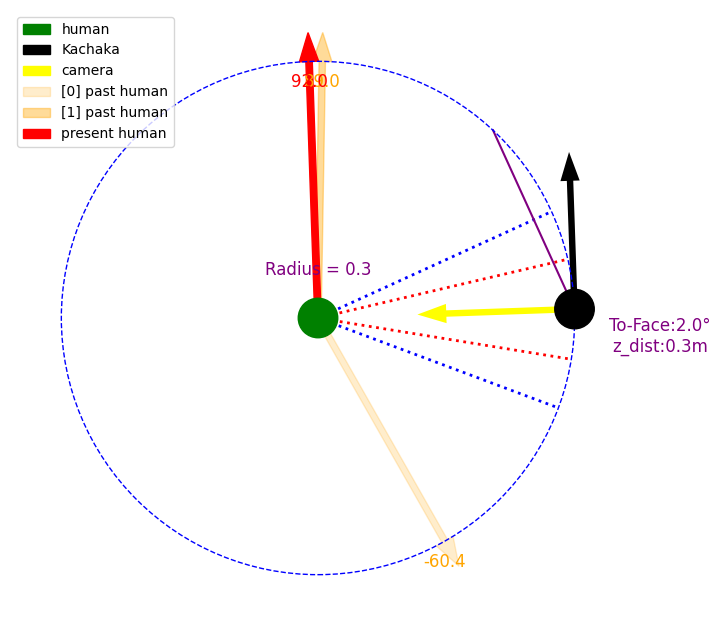
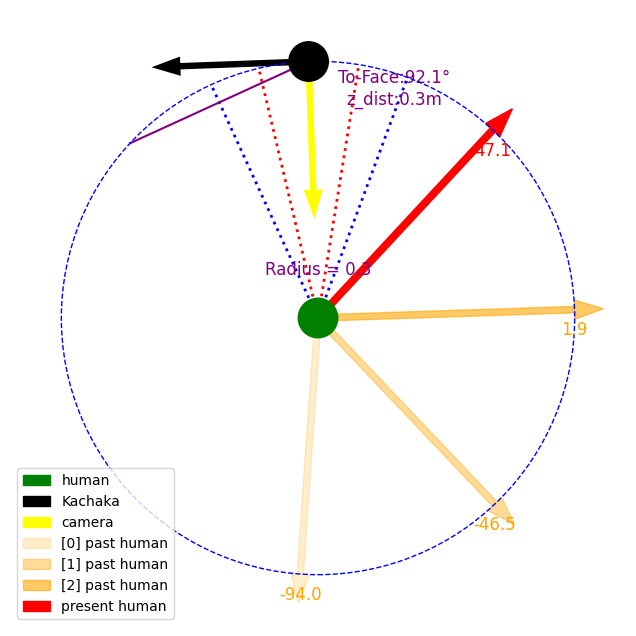
going in a circle but the wrong way

diff --git a/stalk/funcs.py b/stalk/funcs.py
@@ -757,7 +757,7 @@ class KachakaFrame():
 
     async def test_circle(self):
         if self.dest_pose is None:
-            target_rad = np.deg2rad(180)
+            target_rad = np.deg2rad(45)
             z_dist = 0.3 #meter
             (pose_x, pose_y), pose_theta = await self.get_robot_pose() # pose_theta is in range [-pi, pi]
             camera_rad = math.pi/2
@@ -773,14 +773,13 @@ class KachakaFrame():
             d_theta = math.pi + (target_rad - camera_look_rad)
             # get new coords
             step_theta = np.sign(d_theta)*min(math.pi/4, abs(d_theta))
-            new_theta = rel_theta + step_theta
+            new_theta = rel_theta + step_theta + math.pi/2
             rel_new_x, rel_new_y = get_coords_from_angle(new_theta, z_dist)
             # print((rel_pose_x, rel_pose_y), (rel_new_x, rel_new_y))
             new_x, new_y = human_x - rel_new_x, human_y - rel_new_y
             # print((pose_x, pose_y), (new_x, new_y))
             # self.dest_pose = (pose_x, pose_y, new_theta)
-            self.dest_pose = (new_x, new_y, 0)
-            print((pose_x, pose_y), (human_x, human_y), (rel_pose_x, rel_pose_y), (rel_new_x, rel_new_y), (new_x, new_y))
+            self.dest_pose = (new_x, new_y, kachaka_look_rad + step_theta)
 
             # visualize
             fig,ax = plt.subplots(figsize=(12,8))
@@ -1404,15 +1403,18 @@ def filter_outliers_IQR(data: np.ndarray) -> np.ndarray:
 def dir_to_gif():
     import os
     from PIL import Image
-    dir = "/home/yo/Desktop/kachaka/kachaka-learn/stalk/img/"
-    images = [f for f in os.listdir(dir) if f.endswith(".png")]
-    images.sort()
-    images = [Image.open(os.path.join(dir,f)) for f in images]
-    images[0].save('output.gif',
-               save_all=True,  # Save all frames
-               append_images=images[1:],  # Append the rest of the images
-               duration=500,  # Duration between frames in milliseconds
-               loop=0)  # Loop forever
+    try:
+        dir = "/home/yo/Desktop/kachaka/kachaka-learn/stalk/img/"
+        images = [f for f in os.listdir(dir) if f.endswith(".png")]
+        images.sort()
+        images = [Image.open(os.path.join(dir,f)) for f in images]
+        images[0].save('output.gif',
+                save_all=True,  # Save all frames
+                append_images=images[1:],  # Append the rest of the images
+                duration=500,  # Duration between frames in milliseconds
+                loop=0)  # Loop forever
+    except Exception as e:
+        logging.error(e)
 
 class C:
     RED = "\033[31m"

diff --git a/stalk/circle.py b/stalk/circle.py
@@ -7,8 +7,8 @@ warnings.filterwarnings("ignore")
 from funcs import *
 
 KACHAKA_IPS = {
-    0:"192.168.118.165:26400",
-    # 1:"192.168.118.166:26400",
+    # 0:"192.168.118.165:26400",
+    1:"192.168.118.166:26400",
     # 2:"192.168.118.160:26400"
     }
 
